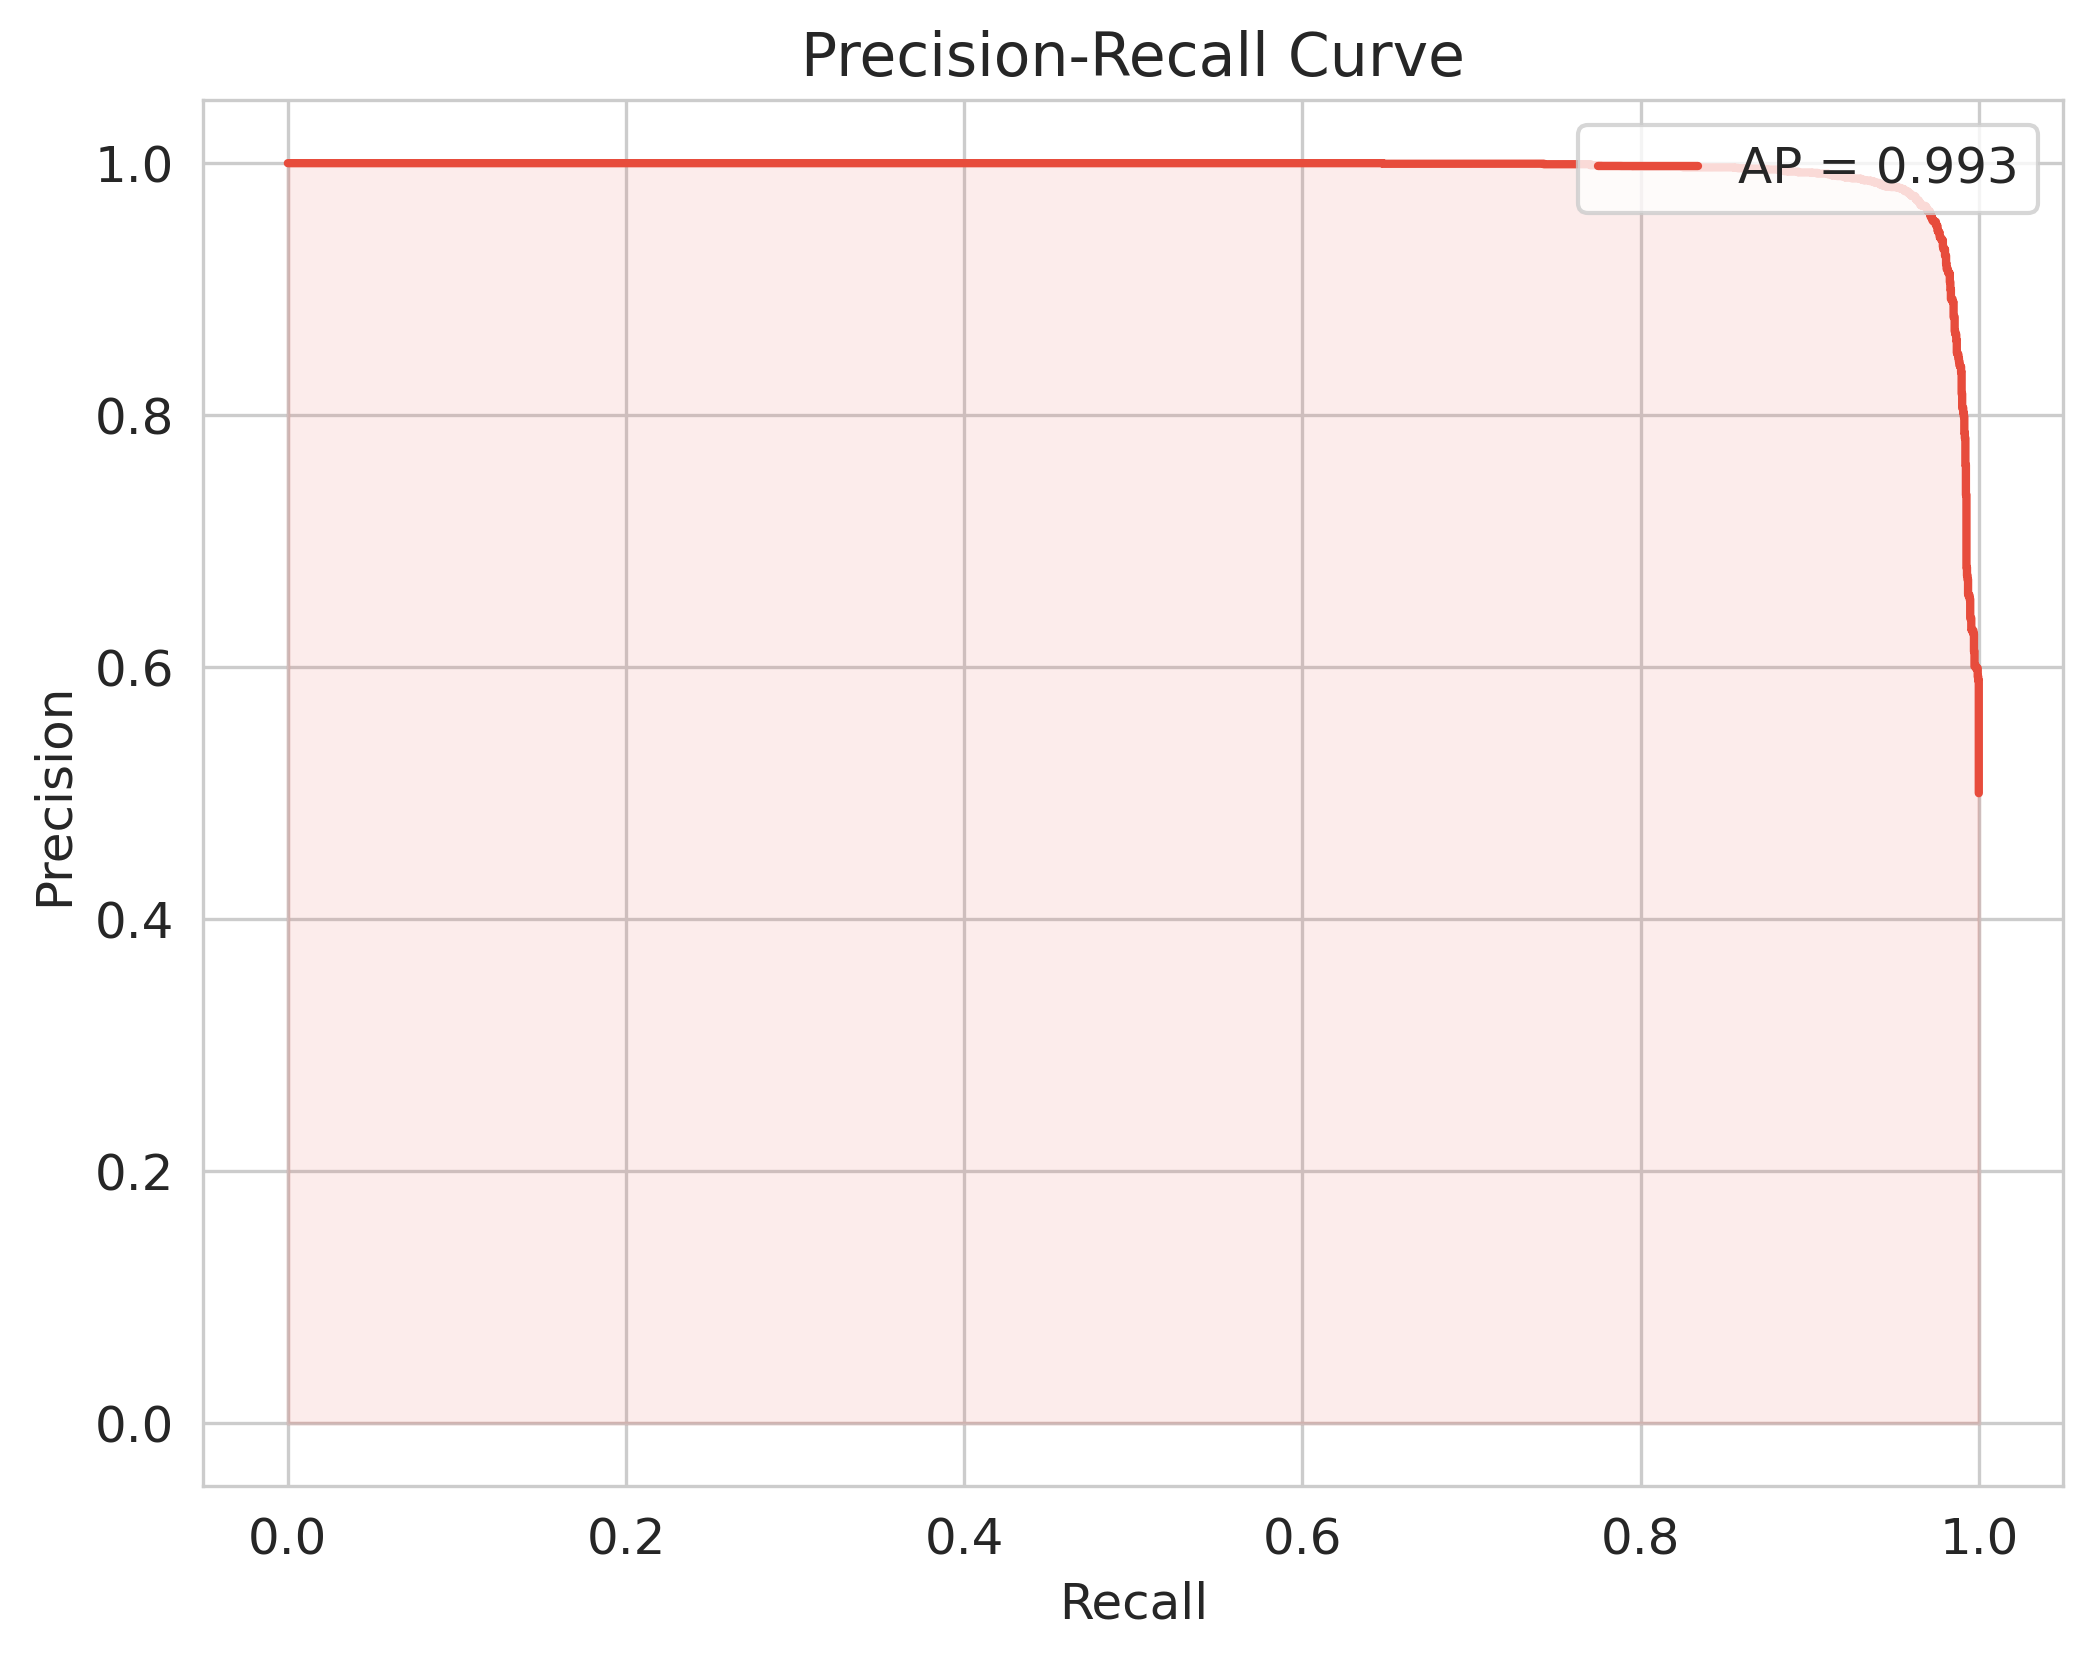
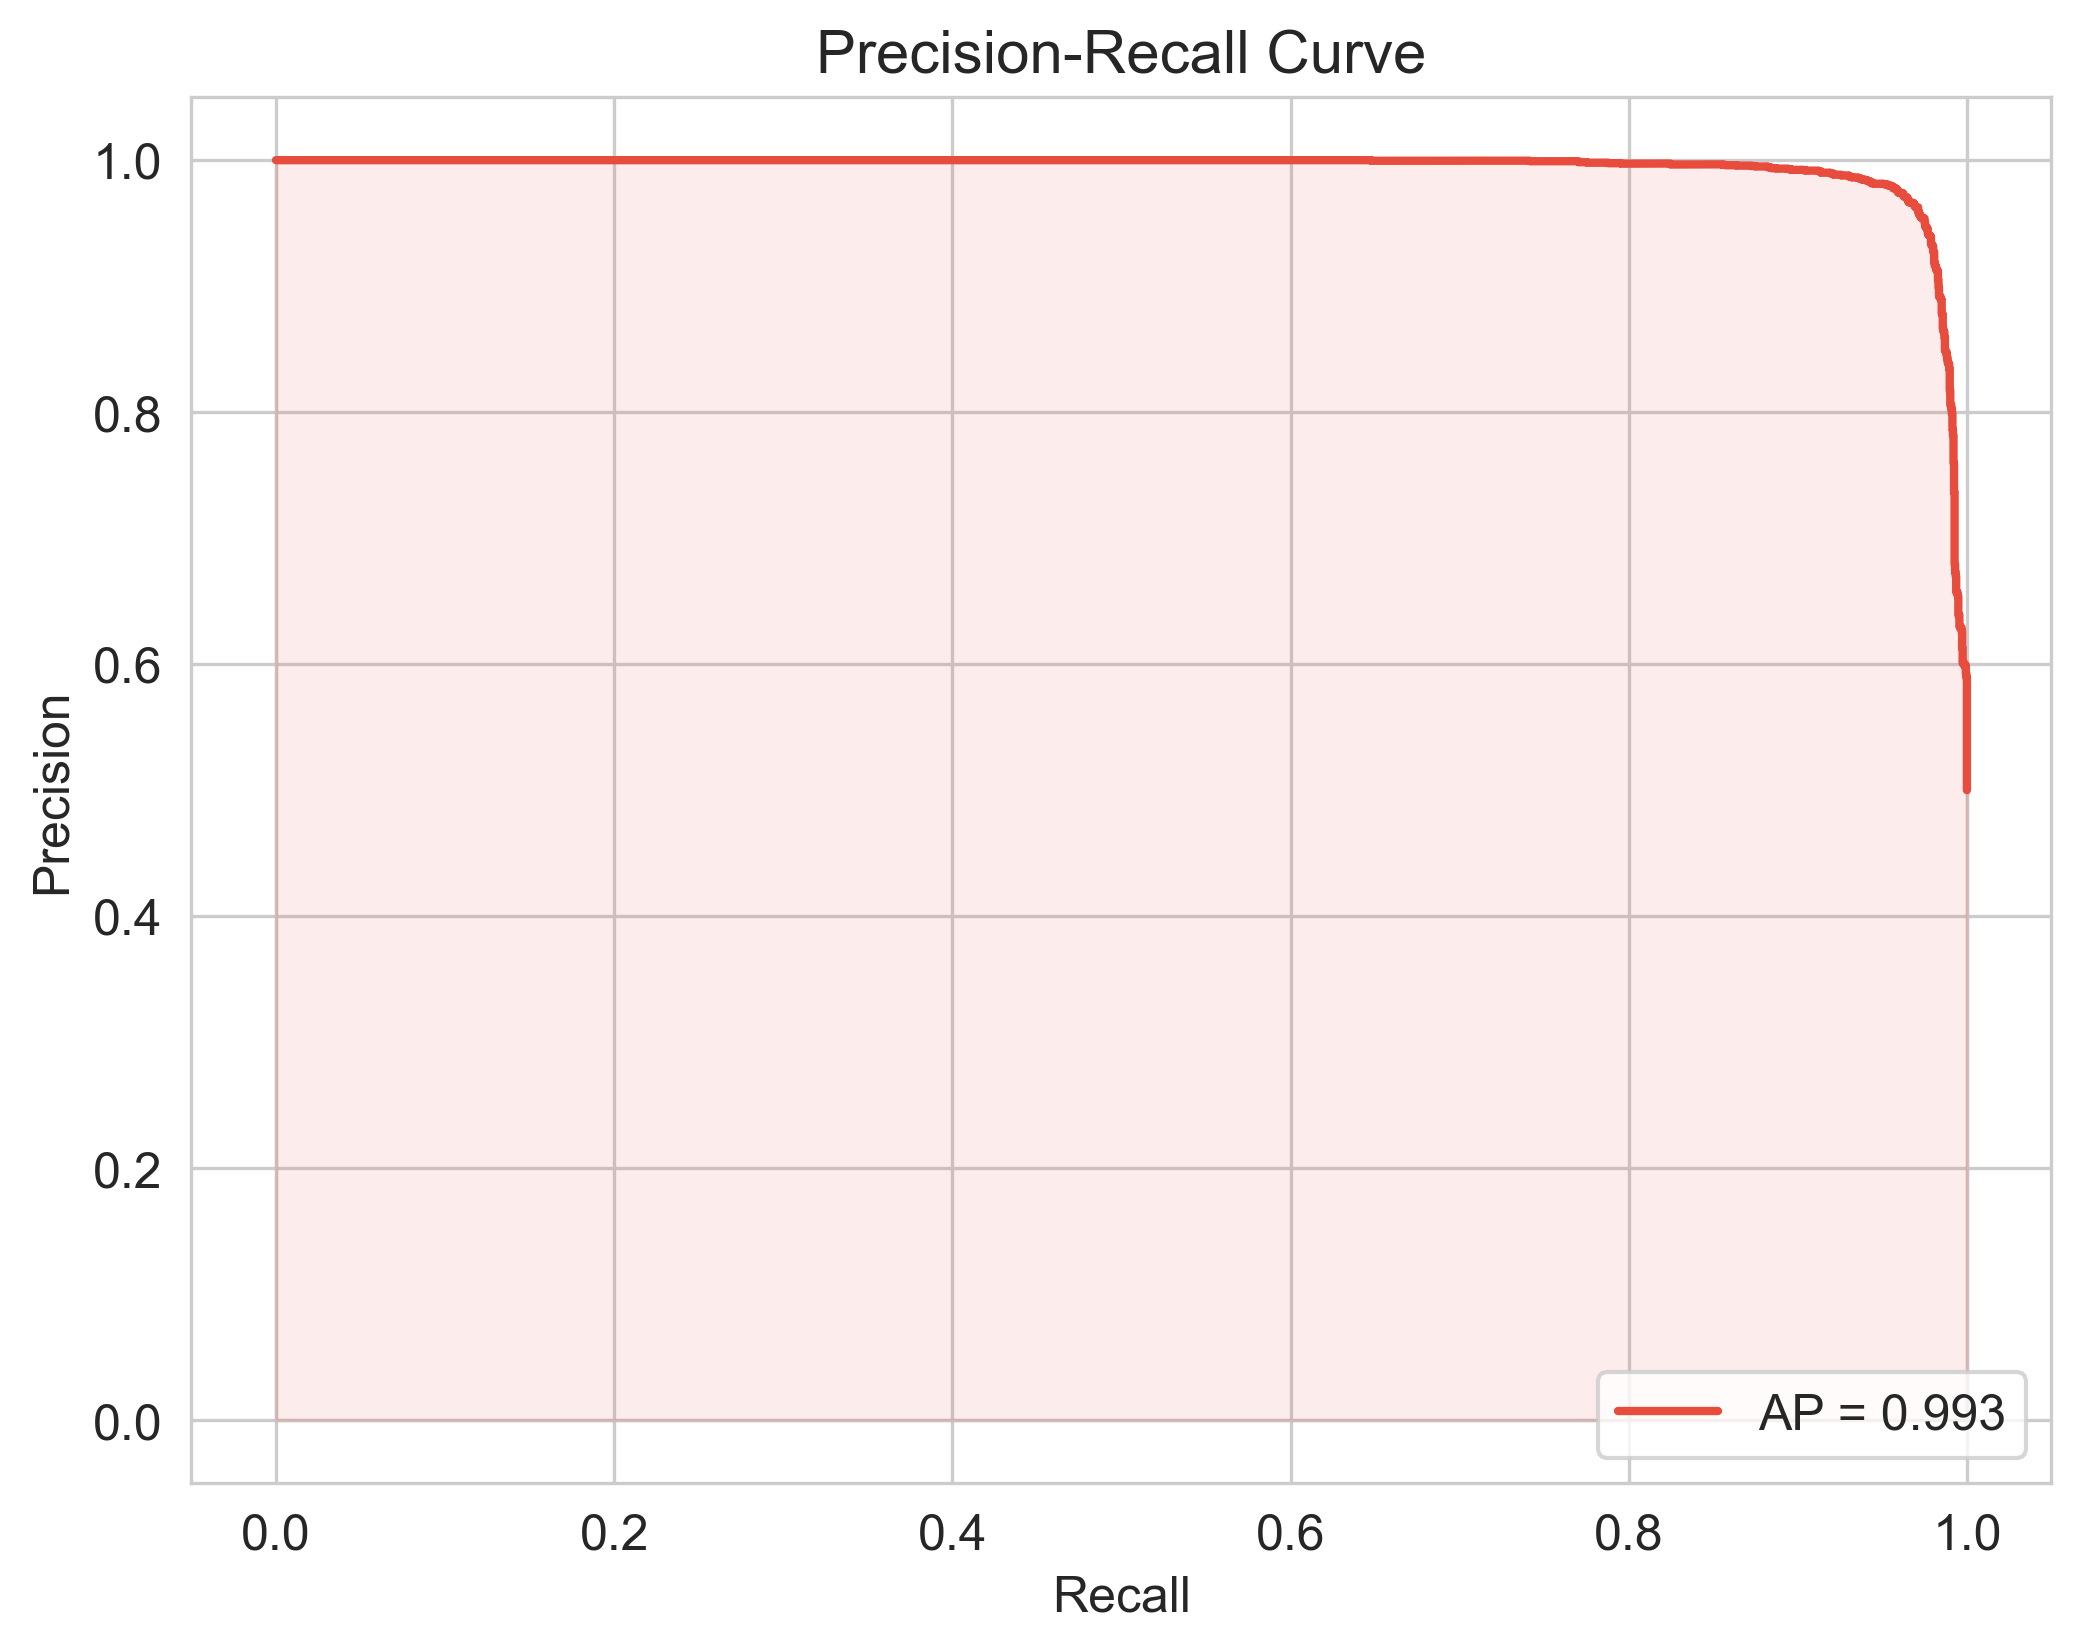
ded

diff --git a/report/FinalReport.tex b/report/FinalReport.tex
@@ -299,26 +299,11 @@ The model achieved the following results after training on a Lenovo Flex 5 Lapto
 \noindent
 Additionally, the following ROC curve, Precision-Recall curve, and confusion matrix were generated to visualize the model's performance:
 
-
 \begin{figure}[htbp]
     \centering
-    \includegraphics[width=0.8\textwidth]{../analysis/url/roc_curve.png}
-    \caption{ROC Curve for URL Model}
-    \label{fig:roc_curve_1}
-\end{figure}
-
-\begin{figure}[htbp]
-    \centering
-    \includegraphics[width=0.8\textwidth]{../analysis/url/precision_recall_curve.png}
-    \caption{Precision-Recall Curve for URL Model}
-    \label{fig:precision_recall_curve_1}
-\end{figure}
-
-\begin{figure}[htbp]
-    \centering
-    \includegraphics[width=0.8\textwidth]{../analysis/url/confusion_matrix.png}
-    \caption{Confusion Matrix for URL Model}
-    \label{fig:confusion_matrix_1}
+    \includegraphics[width=0.9\textwidth]{../analysis/url/combined_metrics.png}
+    \caption{ROC Curve, Precision-Recall Curve, and Confusion Matrix for URL Model}
+    \label{fig:combined_metrics_1}
 \end{figure}
 
 \subsubsection{SMS Model}
@@ -407,23 +392,9 @@ Additionally, the following ROC curve, Precision-Recall curve, and confusion mat
 
 \begin{figure}[htbp]
     \centering
-    \includegraphics[width=0.8\textwidth]{../analysis/sms/randomforest/roc_curve.png}
-    \caption{ROC Curve for SMS Model}
-    \label{fig:roc_curve_2}
-\end{figure}
-
-\begin{figure}[htbp]
-    \centering
-    \includegraphics[width=0.8\textwidth]{../analysis/sms/randomforest/precision_recall_curve.png}
-    \caption{Precision-Recall Curve for SMS Model}
-    \label{fig:precision_recall_curve_2}
-\end{figure}
-
-\begin{figure}[htbp]
-    \centering
-    \includegraphics[width=0.8\textwidth]{../analysis/sms/randomforest/confusion_matrix.png}
-    \caption{Confusion Matrix for SMS Model}
-    \label{fig:confusion_matrix_2}
+    \includegraphics[width=0.9\textwidth]{../analysis/sms/randomforest/combined_metrics.png}
+    \caption{ROC Curve, Precision-Recall Curve, and Confusion Matrix for SMS Model} 
+    \label{fig:combined_metrics_2}
 \end{figure}
 
 \newpage
@@ -460,23 +431,9 @@ We also generated the following ROC curve, Precision-Recall curve, and confusion
 
 \begin{figure}[htbp]
     \centering
-    \includegraphics[width=0.8\textwidth]{../analysis/sms/randomforest/uci/roc_curve.png}
-    \caption{ROC Curve for SMS Model (UCI Dataset)}
-    \label{fig:roc_curve_3}
-\end{figure}
-
-\begin{figure}[htbp]
-    \centering
-    \includegraphics[width=0.8\textwidth]{../analysis/sms/randomforest/uci/precision_recall_curve.png}
-    \caption{Precision-Recall Curve for SMS Model (UCI Dataset)}
-    \label{fig:precision_recall_curve_3}
-\end{figure}
-
-\begin{figure}[htbp]
-    \centering
-    \includegraphics[width=0.8\textwidth]{../analysis/sms/randomforest/uci/confusion_matrix.png}
-    \caption{Confusion Matrix for SMS Model (UCI Dataset)}
-    \label{fig:confusion_matrix_3}
+    \includegraphics[width=0.9\textwidth]{../analysis/sms/randomforest/uci/combined_metrics.png}
+    \caption{ROC Curve, Precision-Recall Curve, and Confusion Matrix for SMS Model (UCI Dataset)}
+    \label{fig:combined_metrics_3}
 \end{figure}
 
 \newpage

diff --git a/analysis/models/predict_sms_traditional.py b/analysis/models/predict_sms_traditional.py
@@ -63,7 +63,7 @@ plt.fill_between(recall, precision, alpha=0.1, color='#e74c3c')
 plt.xlabel('Recall')
 plt.ylabel('Precision')
 plt.title('Precision-Recall Curve')
-plt.legend(loc="upper right")
+plt.legend(loc="lower right")
 plt.savefig('analysis/sms/traditional/precision_recall_curve.png', dpi=300, bbox_inches='tight')
 plt.close()
 

diff --git a/analysis/models/predict_sms_hybrid.py b/analysis/models/predict_sms_hybrid.py
@@ -144,7 +144,7 @@ def evaluate_hybrid_model(file_path):
     plt.xlabel('Recall')
     plt.ylabel('Precision')
     plt.title('Precision-Recall Curve')
-    plt.legend(loc="upper right")
+    plt.legend(loc="lower right")
     plt.savefig('analysis/sms/hybrid/precision_recall_curve.png', dpi=300, bbox_inches='tight')
     plt.close()
 

diff --git a/models/email/train_email_model.py b/models/email/train_email_model.py
@@ -115,7 +115,7 @@ plt.fill_between(recall, precision, alpha=0.1, color='#e74c3c')
 plt.xlabel('Recall')
 plt.ylabel('Precision')
 plt.title('Precision-Recall Curve')
-plt.legend(loc="upper right")
+plt.legend(loc="lower right")
 plt.savefig('analysis/email/precision_recall_curve.png', dpi=300, bbox_inches='tight')
 plt.close()
 

diff --git a/models/sms/train_sms_model.py b/models/sms/train_sms_model.py
@@ -127,7 +127,7 @@ plt.fill_between(recall, precision, alpha=0.1, color='#e74c3c')
 plt.xlabel('Recall')
 plt.ylabel('Precision')
 plt.title('Precision-Recall Curve')
-plt.legend(loc="upper right")
+plt.legend(loc="lower right")
 plt.savefig(figure_path + 'precision_recall_curve.png', dpi=300, bbox_inches='tight')
 plt.close()
 

diff --git a/models/url/train_url_model.py b/models/url/train_url_model.py
@@ -193,7 +193,7 @@ plt.fill_between(recall, precision, alpha=0.1, color='#e74c3c')
 plt.xlabel('Recall')
 plt.ylabel('Precision')
 plt.title('Precision-Recall Curve')
-plt.legend(loc="upper right")
+plt.legend(loc="lower right")
 plt.savefig('analysis/url/precision_recall_curve.png', dpi=300, bbox_inches='tight')
 plt.close()
 
